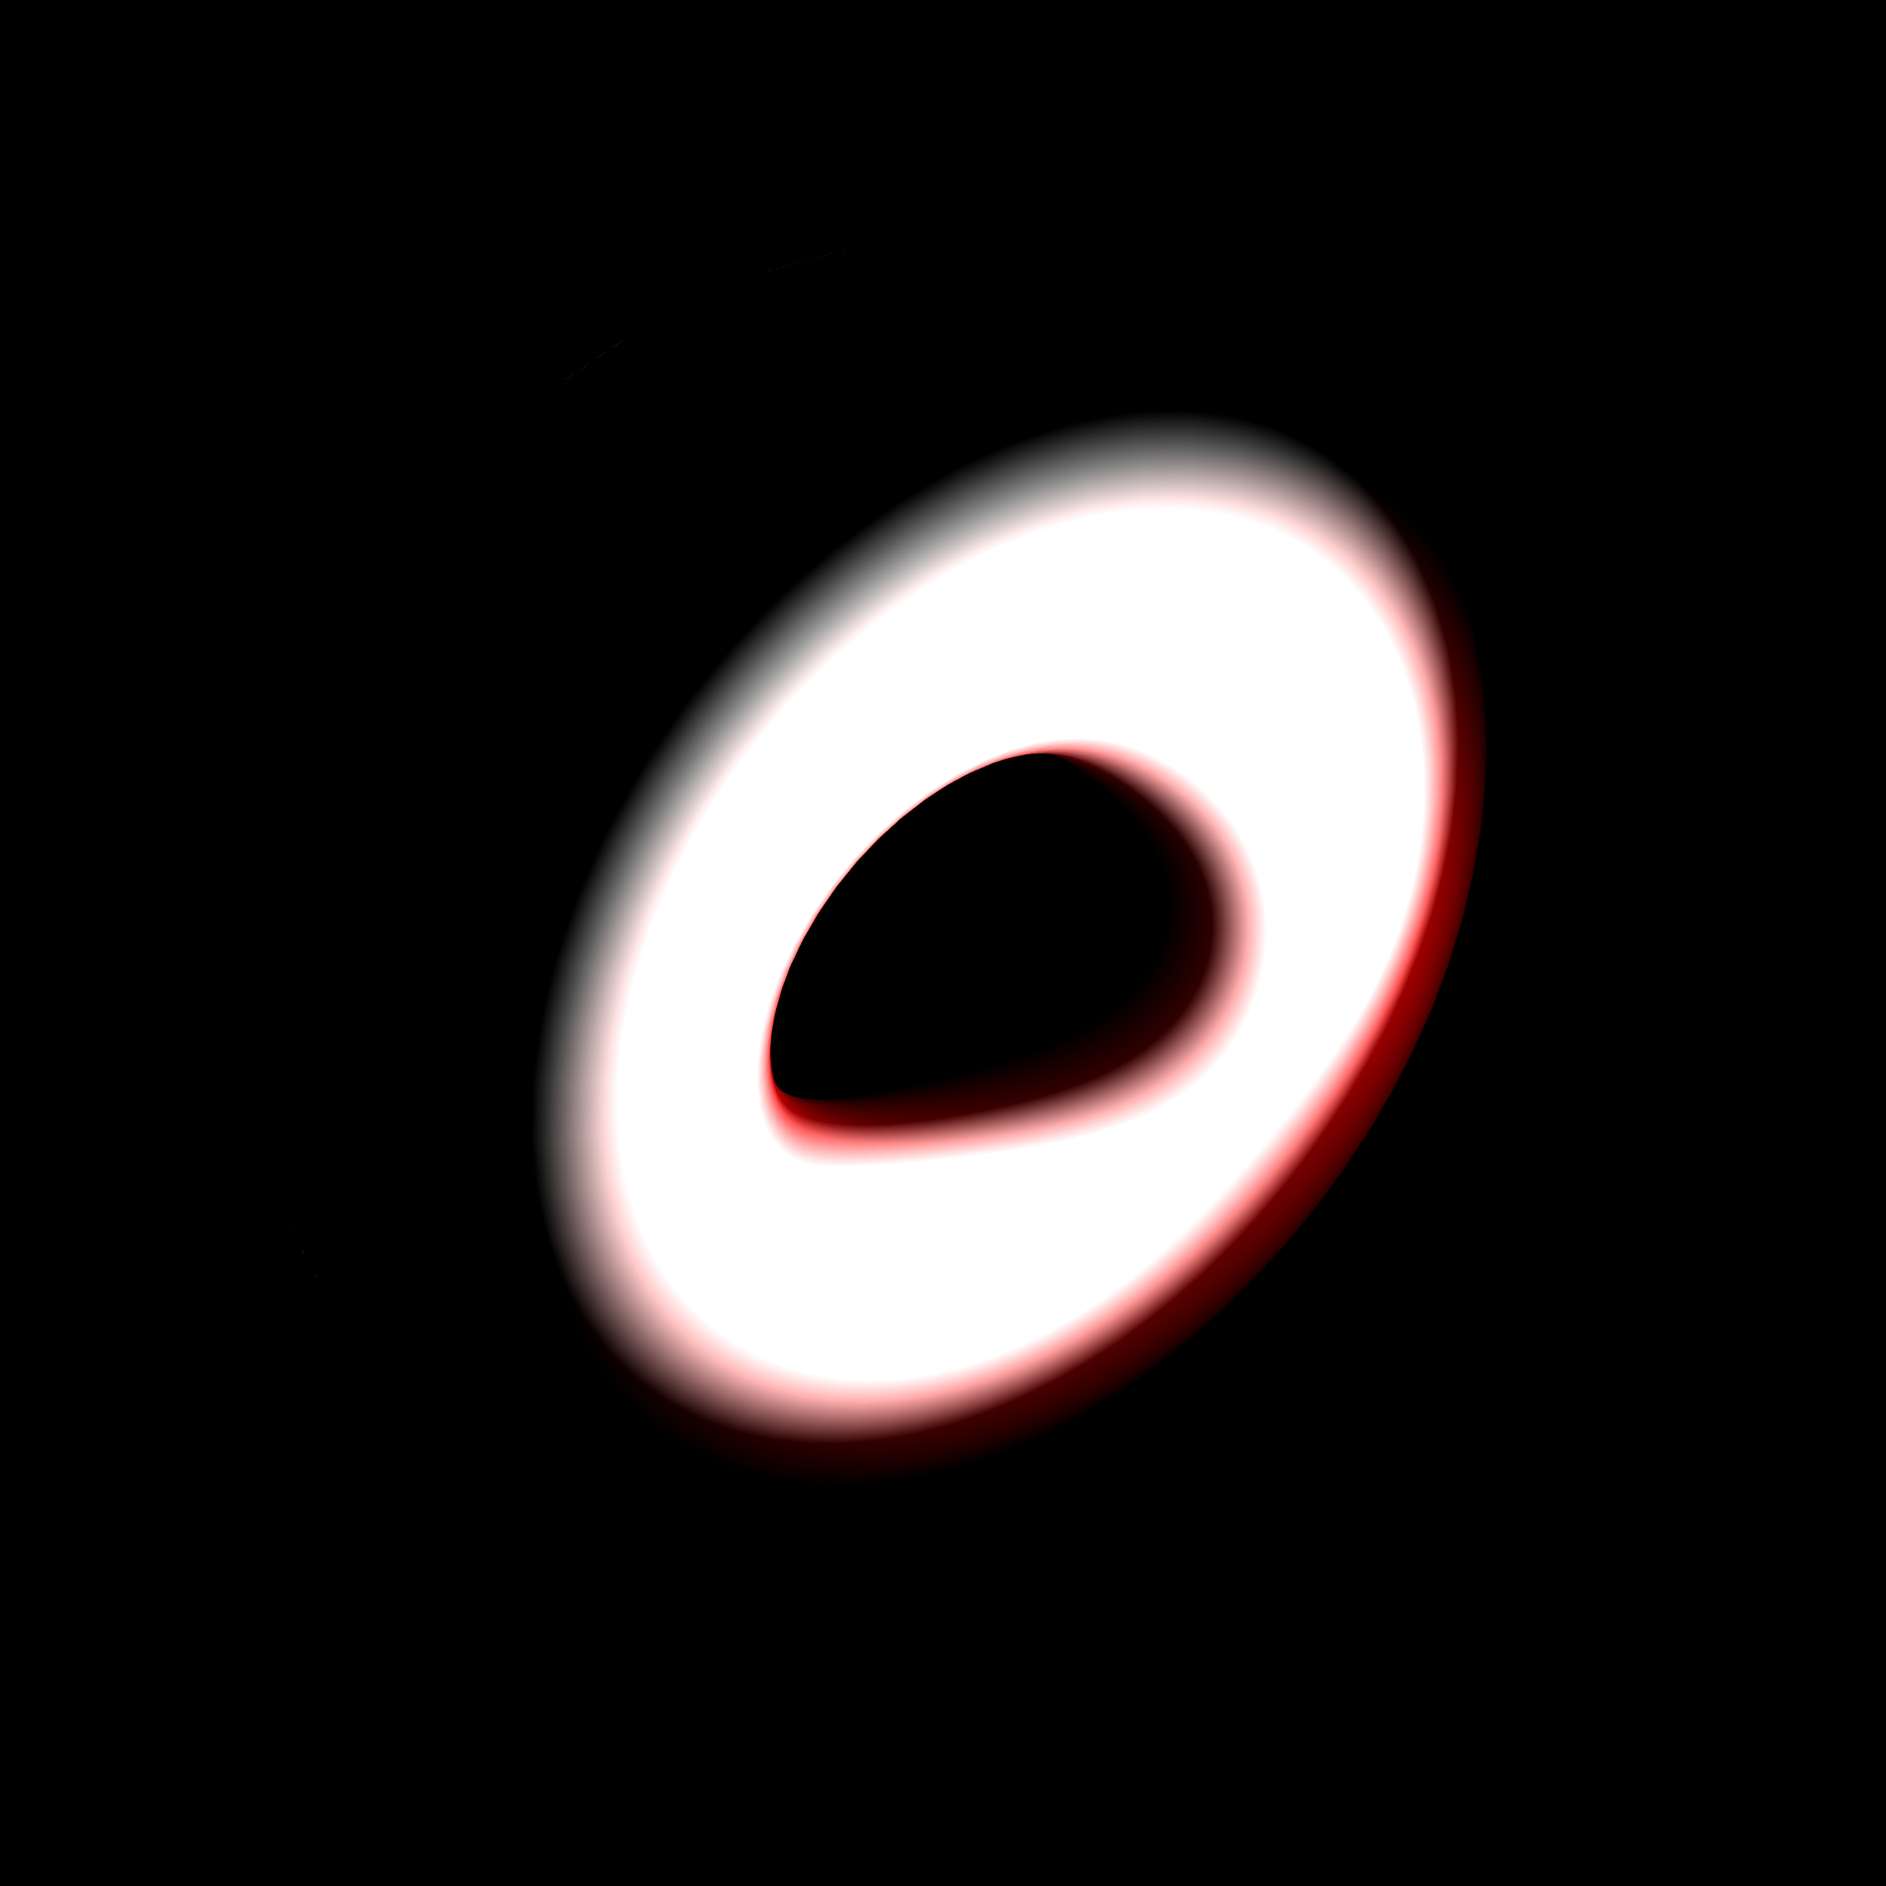
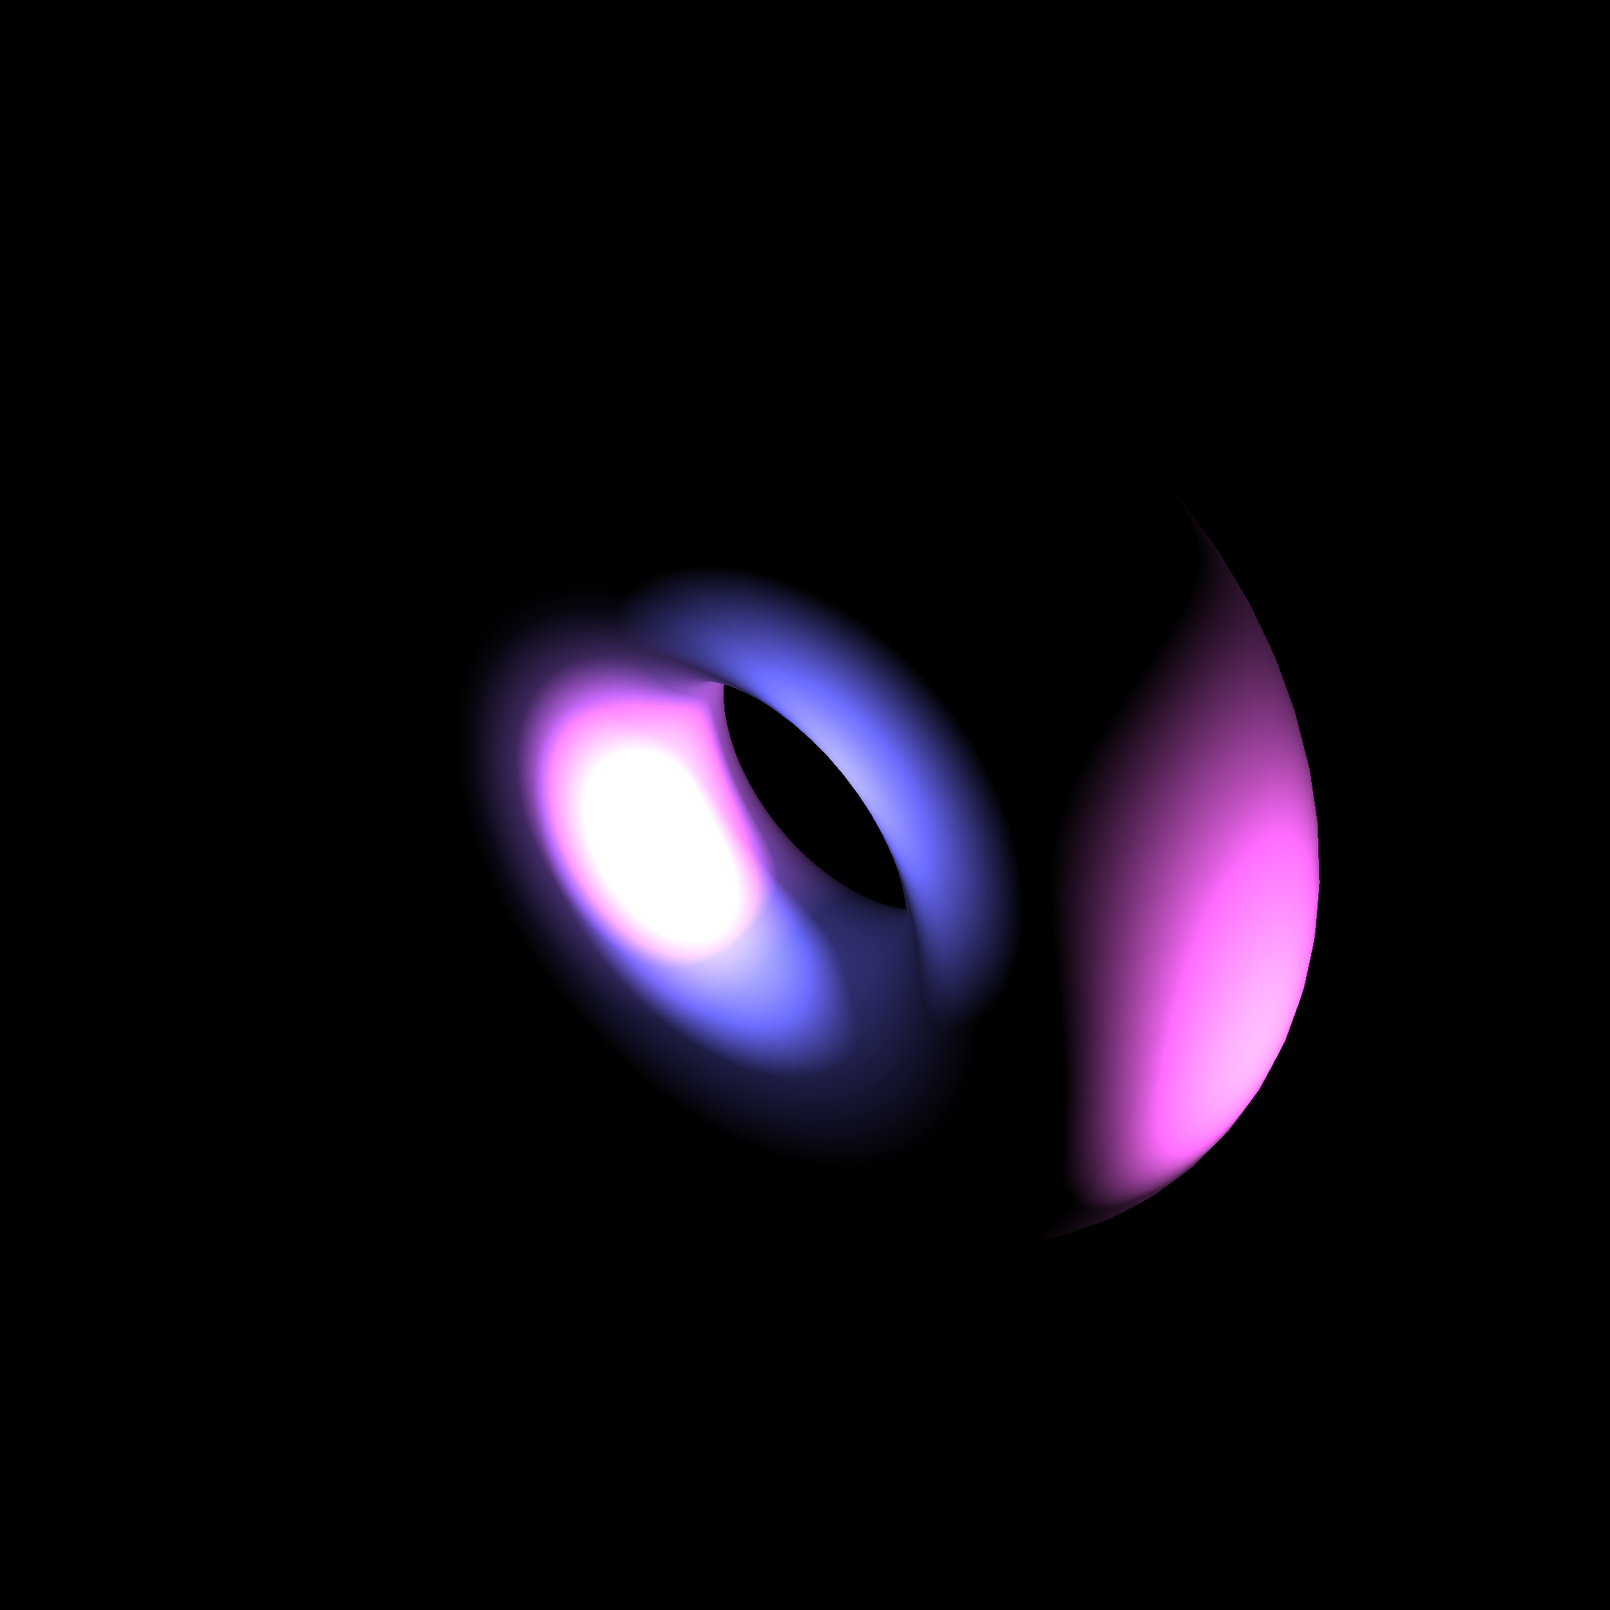
tweak torus code

Changed region(s): [[0.2797, 0.2176, 0.8392, 0.777]]

diff --git a/_site/posts/2023-01-14_p5js/index.html b/_site/posts/2023-01-14_p5js/index.html
@@ -410,34 +410,35 @@ code span.wa { color: #60a0b0; font-weight: bold; font-style: italic; } /* Warni
 </div>
 </div>
 </section>
-<section id="example-3" class="level2 page-columns page-full">
+<section id="example-3" class="level2">
 <h2 class="anchored" data-anchor-id="example-3">Example 3</h2>
-<div class="cell page-columns page-full">
-<div class="sourceCode cell-code" id="cb7" data-startfrom="169" data-source-offset="0"><pre class="sourceCode js code-with-copy"><code class="sourceCode javascript" style="counter-reset: source-line 168;"><span id="cb7-169"><a href="#cb7-169" aria-hidden="true" tabindex="-1"></a><span class="fu">p5_sketch</span>(s <span class="kw">=&gt;</span> {</span>
-<span id="cb7-170"><a href="#cb7-170" aria-hidden="true" tabindex="-1"></a></span>
-<span id="cb7-171"><a href="#cb7-171" aria-hidden="true" tabindex="-1"></a>  s<span class="op">.</span><span class="at">setup</span> <span class="op">=</span> <span class="kw">function</span>() {</span>
-<span id="cb7-172"><a href="#cb7-172" aria-hidden="true" tabindex="-1"></a>    s<span class="op">.</span><span class="fu">createCanvas</span>(<span class="dv">1300</span><span class="op">,</span> <span class="dv">1300</span><span class="op">,</span> s<span class="op">.</span><span class="at">WEBGL</span>)<span class="op">;</span></span>
+<div class="cell">
+<div class="sourceCode cell-code" id="cb7" data-startfrom="168" data-source-offset="0"><pre class="sourceCode js code-with-copy"><code class="sourceCode javascript" style="counter-reset: source-line 167;"><span id="cb7-168"><a href="#cb7-168" aria-hidden="true" tabindex="-1"></a><span class="fu">p5_sketch</span>(s <span class="kw">=&gt;</span> {</span>
+<span id="cb7-169"><a href="#cb7-169" aria-hidden="true" tabindex="-1"></a></span>
+<span id="cb7-170"><a href="#cb7-170" aria-hidden="true" tabindex="-1"></a>  s<span class="op">.</span><span class="at">setup</span> <span class="op">=</span> <span class="kw">function</span>() {</span>
+<span id="cb7-171"><a href="#cb7-171" aria-hidden="true" tabindex="-1"></a>    s<span class="op">.</span><span class="fu">createCanvas</span>(<span class="dv">740</span><span class="op">,</span> <span class="dv">740</span><span class="op">,</span> s<span class="op">.</span><span class="at">WEBGL</span>)<span class="op">;</span></span>
+<span id="cb7-172"><a href="#cb7-172" aria-hidden="true" tabindex="-1"></a>    s<span class="op">.</span><span class="fu">noStroke</span>()<span class="op">;</span></span>
 <span id="cb7-173"><a href="#cb7-173" aria-hidden="true" tabindex="-1"></a>  }</span>
 <span id="cb7-174"><a href="#cb7-174" aria-hidden="true" tabindex="-1"></a></span>
 <span id="cb7-175"><a href="#cb7-175" aria-hidden="true" tabindex="-1"></a>  s<span class="op">.</span><span class="at">draw</span> <span class="op">=</span> <span class="kw">function</span>() {</span>
 <span id="cb7-176"><a href="#cb7-176" aria-hidden="true" tabindex="-1"></a></span>
-<span id="cb7-177"><a href="#cb7-177" aria-hidden="true" tabindex="-1"></a>    s<span class="op">.</span> <span class="fu">background</span>(<span class="dv">0</span>)<span class="op">;</span></span>
+<span id="cb7-177"><a href="#cb7-177" aria-hidden="true" tabindex="-1"></a>    s<span class="op">.</span><span class="fu">background</span>(<span class="dv">0</span>)<span class="op">;</span></span>
 <span id="cb7-178"><a href="#cb7-178" aria-hidden="true" tabindex="-1"></a></span>
 <span id="cb7-179"><a href="#cb7-179" aria-hidden="true" tabindex="-1"></a>    <span class="kw">let</span> locX <span class="op">=</span> s<span class="op">.</span><span class="at">mouseX</span> <span class="op">-</span> s<span class="op">.</span><span class="at">height</span> <span class="op">/</span> <span class="dv">2</span><span class="op">;</span></span>
 <span id="cb7-180"><a href="#cb7-180" aria-hidden="true" tabindex="-1"></a>    <span class="kw">let</span> locY <span class="op">=</span> s<span class="op">.</span><span class="at">mouseY</span> <span class="op">-</span> s<span class="op">.</span><span class="at">width</span> <span class="op">/</span> <span class="dv">2</span><span class="op">;</span>  </span>
 <span id="cb7-181"><a href="#cb7-181" aria-hidden="true" tabindex="-1"></a>    </span>
 <span id="cb7-182"><a href="#cb7-182" aria-hidden="true" tabindex="-1"></a>    s<span class="op">.</span><span class="fu">ambientLight</span>(<span class="dv">60</span><span class="op">,</span> <span class="dv">60</span><span class="op">,</span> <span class="dv">60</span>)<span class="op">;</span></span>
-<span id="cb7-183"><a href="#cb7-183" aria-hidden="true" tabindex="-1"></a>    s<span class="op">.</span><span class="fu">pointLight</span>(<span class="dv">255</span><span class="op">,</span> <span class="dv">255</span><span class="op">,</span> <span class="dv">255</span><span class="op">,</span> locX<span class="op">,</span> locY<span class="op">,</span> <span class="dv">100</span>)<span class="op">;</span></span>
-<span id="cb7-184"><a href="#cb7-184" aria-hidden="true" tabindex="-1"></a>  </span>
-<span id="cb7-185"><a href="#cb7-185" aria-hidden="true" tabindex="-1"></a>    s<span class="op">.</span><span class="fu">specularMaterial</span>(<span class="dv">250</span>)<span class="op">;</span></span>
-<span id="cb7-186"><a href="#cb7-186" aria-hidden="true" tabindex="-1"></a>    s<span class="op">.</span><span class="fu">fill</span>(<span class="dv">250</span><span class="op">,</span> <span class="dv">0</span><span class="op">,</span> <span class="dv">0</span>)<span class="op">;</span></span>
+<span id="cb7-183"><a href="#cb7-183" aria-hidden="true" tabindex="-1"></a>    s<span class="op">.</span><span class="fu">pointLight</span>(<span class="dv">190</span><span class="op">,</span> <span class="dv">80</span><span class="op">,</span> <span class="dv">190</span><span class="op">,</span> locX<span class="op">,</span> locY<span class="op">,</span> <span class="dv">100</span>)<span class="op">;</span></span>
+<span id="cb7-184"><a href="#cb7-184" aria-hidden="true" tabindex="-1"></a>    s<span class="op">.</span><span class="fu">pointLight</span>(<span class="dv">80</span><span class="op">,</span> <span class="dv">80</span><span class="op">,</span> <span class="dv">190</span><span class="op">,</span> <span class="dv">0</span><span class="op">,</span> <span class="dv">0</span><span class="op">,</span> <span class="dv">100</span>)<span class="op">;</span></span>
+<span id="cb7-185"><a href="#cb7-185" aria-hidden="true" tabindex="-1"></a>  </span>
+<span id="cb7-186"><a href="#cb7-186" aria-hidden="true" tabindex="-1"></a>    s<span class="op">.</span><span class="fu">specularMaterial</span>(<span class="dv">255</span>)<span class="op">;</span></span>
 <span id="cb7-187"><a href="#cb7-187" aria-hidden="true" tabindex="-1"></a>    s<span class="op">.</span><span class="fu">rotateX</span>(s<span class="op">.</span><span class="at">frameCount</span> <span class="op">*</span> <span class="fl">0.01</span>)<span class="op">;</span></span>
 <span id="cb7-188"><a href="#cb7-188" aria-hidden="true" tabindex="-1"></a>    s<span class="op">.</span><span class="fu">rotateY</span>(s<span class="op">.</span><span class="at">frameCount</span> <span class="op">*</span> <span class="fl">0.01</span>)<span class="op">;</span></span>
-<span id="cb7-189"><a href="#cb7-189" aria-hidden="true" tabindex="-1"></a>    s<span class="op">.</span><span class="fu">torus</span>(<span class="dv">300</span><span class="op">,</span> <span class="dv">150</span><span class="op">,</span> <span class="dv">64</span><span class="op">,</span> <span class="dv">64</span>)<span class="op">;</span></span>
+<span id="cb7-189"><a href="#cb7-189" aria-hidden="true" tabindex="-1"></a>    s<span class="op">.</span><span class="fu">torus</span>(<span class="dv">150</span><span class="op">,</span> <span class="dv">80</span><span class="op">,</span> <span class="dv">64</span><span class="op">,</span> <span class="dv">64</span>)<span class="op">;</span></span>
 <span id="cb7-190"><a href="#cb7-190" aria-hidden="true" tabindex="-1"></a>  }</span>
 <span id="cb7-191"><a href="#cb7-191" aria-hidden="true" tabindex="-1"></a></span>
 <span id="cb7-192"><a href="#cb7-192" aria-hidden="true" tabindex="-1"></a>})</span></code><button title="Copy to Clipboard" class="code-copy-button"><i class="bi"></i></button></pre></div>
-<div class="cell-output cell-output-display column-page">
+<div class="cell-output cell-output-display">
 <div id="ojs-cell-6" data-nodetype="expression">
 
 </div>
@@ -462,7 +463,7 @@ Danielle Navarro. 2023. <span>“Playing with P5.”</span> January 14,
 <!-- plausible -->
 <script async="" defer="" data-domain="blog.djnavarro.net" src="https://plausible.io/js/plausible.js"></script>
 <script type="ojs-module-contents">
-{"contents":[{"methodName":"interpret","cellName":"ojs-cell-1","inline":false,"source":"P5 = require(\"p5\")\n"},{"methodName":"interpret","cellName":"ojs-cell-2","inline":false,"source":"function* p5_sketch(sketch) {\n  const element = DOM.element('div');\n  yield element;\n  const instance = new P5(sketch, element, true);\n  try {\n    while (true) {\n      yield element;\n    }\n  } finally {\n    instance.remove();\n  }\n}\n"},{"methodName":"interpret","cellName":"ojs-cell-3","inline":false,"source":"p5_sketch(s => {\n  \n    s.setup = function() {\n      s.createCanvas(1300, 300);\n      s.textFont('Courgette');\n      s.textStyle(s.BOLD);\n      s.textAlign(s.CENTER, s.CENTER)\n    };\n    \n    s.draw = function() {\n      s.translate(\n        s.millis() * (-0.1) % (s.width + 800), \n        s.height / 2\n      );\n      s.background('#222222');\n      s.fill('#DC3F74').textSize(100);\n      s.text('Hello Cruel World', s.width + 400, 0);\n    };\n    \n  }\n)\n"},{"methodName":"interpret","cellName":"ojs-cell-4","inline":false,"source":"p5_sketch(s => {\n\n  let n = 100;\n  let dot;\n  let dotList = [];\n  let palette = [\n    s.color(\"#6B1B00\"),\n    s.color(\"#AE8B70\"),\n    s.color(\"#F9FEFB\"),\n    s.color(\"#56382D\") \n  ];\n\n  s.setup = function() {\n    s.createCanvas(1300, 480);\n    for(let i = 0; i < n; i++) {\n      dotList.push(dot = new Dot(\n        s,\n        s.random(s.width),\n        s.random(s.height),\n        s.random(palette),\n        s.random(1, 5)\n      ));\n    }\n  };\n    \n  s.draw = function() {\n    dotList.map(dot => {\n      dot.on();\n      dot.move();\n    });\n  };\n})\n\n"},{"methodName":"interpret","cellName":"ojs-cell-5","inline":false,"source":"class Dot {\n  constructor(sketch, x, y, colour, size) {\n    this.s = sketch;\n    this.x = x | 0;\n    this.y = y | 0;\n    this.colour = colour;\n    this.size = size;\n    this.velX = this.s.random(-2, 2);\n    this.velY = this.s.random(-2, 2);\n  }\n\n  on() {\n    this.s.noStroke();\n    this.s.fill(this.colour);\n    this.s.circle(this.x, this.y, this.size);\n  }\n\n  move() {\n    this.x += this.velX;\n    this.y += this.velY;\n    if (this.x < 0 || this.x > this.s.width) {\n      this.velX = -this.velX;\n    }\n    if (this.y < 0 || this.y > this.s.height) {\n      this.velY = -this.velY;\n    }\n  }\n}\n"},{"methodName":"interpret","cellName":"ojs-cell-6","inline":false,"source":"p5_sketch(s => {\n\n  s.setup = function() {\n    s.createCanvas(1300, 1300, s.WEBGL);\n  }\n\n  s.draw = function() {\n\n    s. background(0);\n\n    let locX = s.mouseX - s.height / 2;\n    let locY = s.mouseY - s.width / 2;  \n    \n    s.ambientLight(60, 60, 60);\n    s.pointLight(255, 255, 255, locX, locY, 100);\n  \n    s.specularMaterial(250);\n    s.fill(250, 0, 0);\n    s.rotateX(s.frameCount * 0.01);\n    s.rotateY(s.frameCount * 0.01);\n    s.torus(300, 150, 64, 64);\n  }\n\n})\n"}]}
+{"contents":[{"methodName":"interpret","cellName":"ojs-cell-1","inline":false,"source":"P5 = require(\"p5\")\n"},{"methodName":"interpret","cellName":"ojs-cell-2","inline":false,"source":"function* p5_sketch(sketch) {\n  const element = DOM.element('div');\n  yield element;\n  const instance = new P5(sketch, element, true);\n  try {\n    while (true) {\n      yield element;\n    }\n  } finally {\n    instance.remove();\n  }\n}\n"},{"methodName":"interpret","cellName":"ojs-cell-3","inline":false,"source":"p5_sketch(s => {\n  \n    s.setup = function() {\n      s.createCanvas(1300, 300);\n      s.textFont('Courgette');\n      s.textStyle(s.BOLD);\n      s.textAlign(s.CENTER, s.CENTER)\n    };\n    \n    s.draw = function() {\n      s.translate(\n        s.millis() * (-0.1) % (s.width + 800), \n        s.height / 2\n      );\n      s.background('#222222');\n      s.fill('#DC3F74').textSize(100);\n      s.text('Hello Cruel World', s.width + 400, 0);\n    };\n    \n  }\n)\n"},{"methodName":"interpret","cellName":"ojs-cell-4","inline":false,"source":"p5_sketch(s => {\n\n  let n = 100;\n  let dot;\n  let dotList = [];\n  let palette = [\n    s.color(\"#6B1B00\"),\n    s.color(\"#AE8B70\"),\n    s.color(\"#F9FEFB\"),\n    s.color(\"#56382D\") \n  ];\n\n  s.setup = function() {\n    s.createCanvas(1300, 480);\n    for(let i = 0; i < n; i++) {\n      dotList.push(dot = new Dot(\n        s,\n        s.random(s.width),\n        s.random(s.height),\n        s.random(palette),\n        s.random(1, 5)\n      ));\n    }\n  };\n    \n  s.draw = function() {\n    dotList.map(dot => {\n      dot.on();\n      dot.move();\n    });\n  };\n})\n\n"},{"methodName":"interpret","cellName":"ojs-cell-5","inline":false,"source":"class Dot {\n  constructor(sketch, x, y, colour, size) {\n    this.s = sketch;\n    this.x = x | 0;\n    this.y = y | 0;\n    this.colour = colour;\n    this.size = size;\n    this.velX = this.s.random(-2, 2);\n    this.velY = this.s.random(-2, 2);\n  }\n\n  on() {\n    this.s.noStroke();\n    this.s.fill(this.colour);\n    this.s.circle(this.x, this.y, this.size);\n  }\n\n  move() {\n    this.x += this.velX;\n    this.y += this.velY;\n    if (this.x < 0 || this.x > this.s.width) {\n      this.velX = -this.velX;\n    }\n    if (this.y < 0 || this.y > this.s.height) {\n      this.velY = -this.velY;\n    }\n  }\n}\n"},{"methodName":"interpret","cellName":"ojs-cell-6","inline":false,"source":"p5_sketch(s => {\n\n  s.setup = function() {\n    s.createCanvas(740, 740, s.WEBGL);\n    s.noStroke();\n  }\n\n  s.draw = function() {\n\n    s.background(0);\n\n    let locX = s.mouseX - s.height / 2;\n    let locY = s.mouseY - s.width / 2;  \n    \n    s.ambientLight(60, 60, 60);\n    s.pointLight(190, 80, 190, locX, locY, 100);\n    s.pointLight(80, 80, 190, 0, 0, 100);\n  \n    s.specularMaterial(255);\n    s.rotateX(s.frameCount * 0.01);\n    s.rotateY(s.frameCount * 0.01);\n    s.torus(150, 80, 64, 64);\n  }\n\n})\n"}]}
 </script>
 <script type="module">
 window._ojs.paths.runtimeToDoc = "../../posts/2023-01-14_p5js";

diff --git a/_site/index.html b/_site/index.html
@@ -187,7 +187,7 @@ ul.task-list li input[type="checkbox"] {
 
 <div class="quarto-listing quarto-listing-container-grid" id="listing-listing">
 <div class="list grid quarto-listing-cols-3">
-<div class="g-col-1" data-index="0" data-categories="Art,P5,Observable,Javascript" data-listing-date-sort="1673614800000" data-listing-file-modified-sort="1673699866180" data-listing-reading-time-sort="3.415">
+<div class="g-col-1" data-index="0" data-categories="Art,P5,Observable,Javascript" data-listing-date-sort="1673614800000" data-listing-file-modified-sort="1673701202382" data-listing-reading-time-sort="3.435">
 <a href="./posts/2023-01-14_p5js/index.html" class="quarto-grid-link">
 <div class="quarto-grid-item card h-100 card-left">
 <p class="card-img-top">
